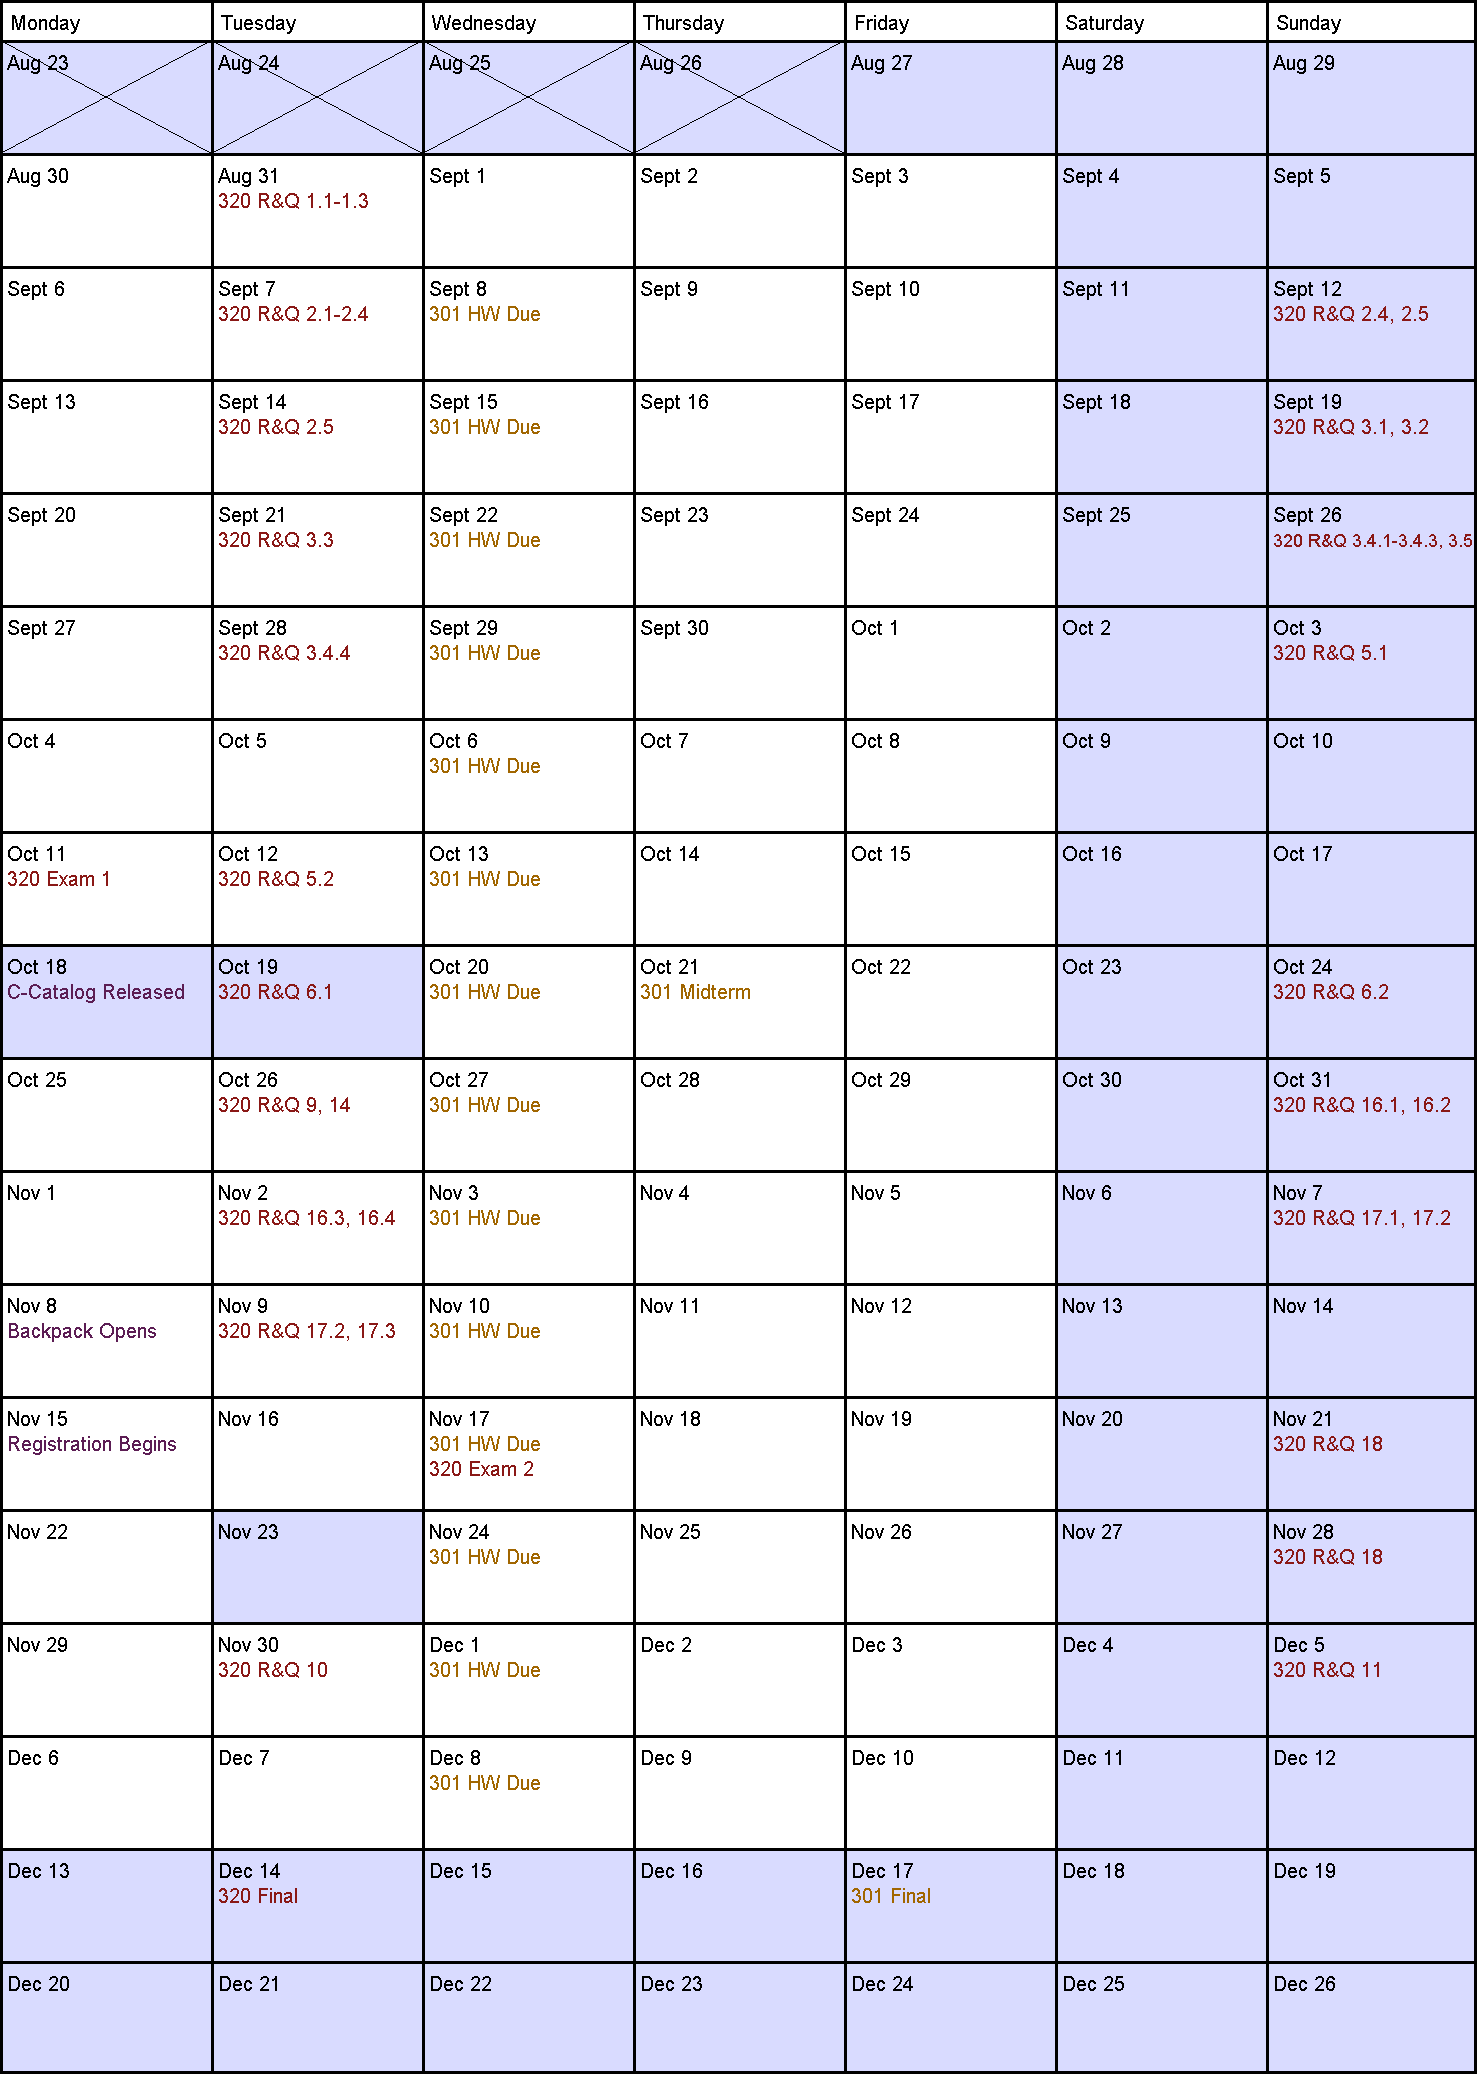
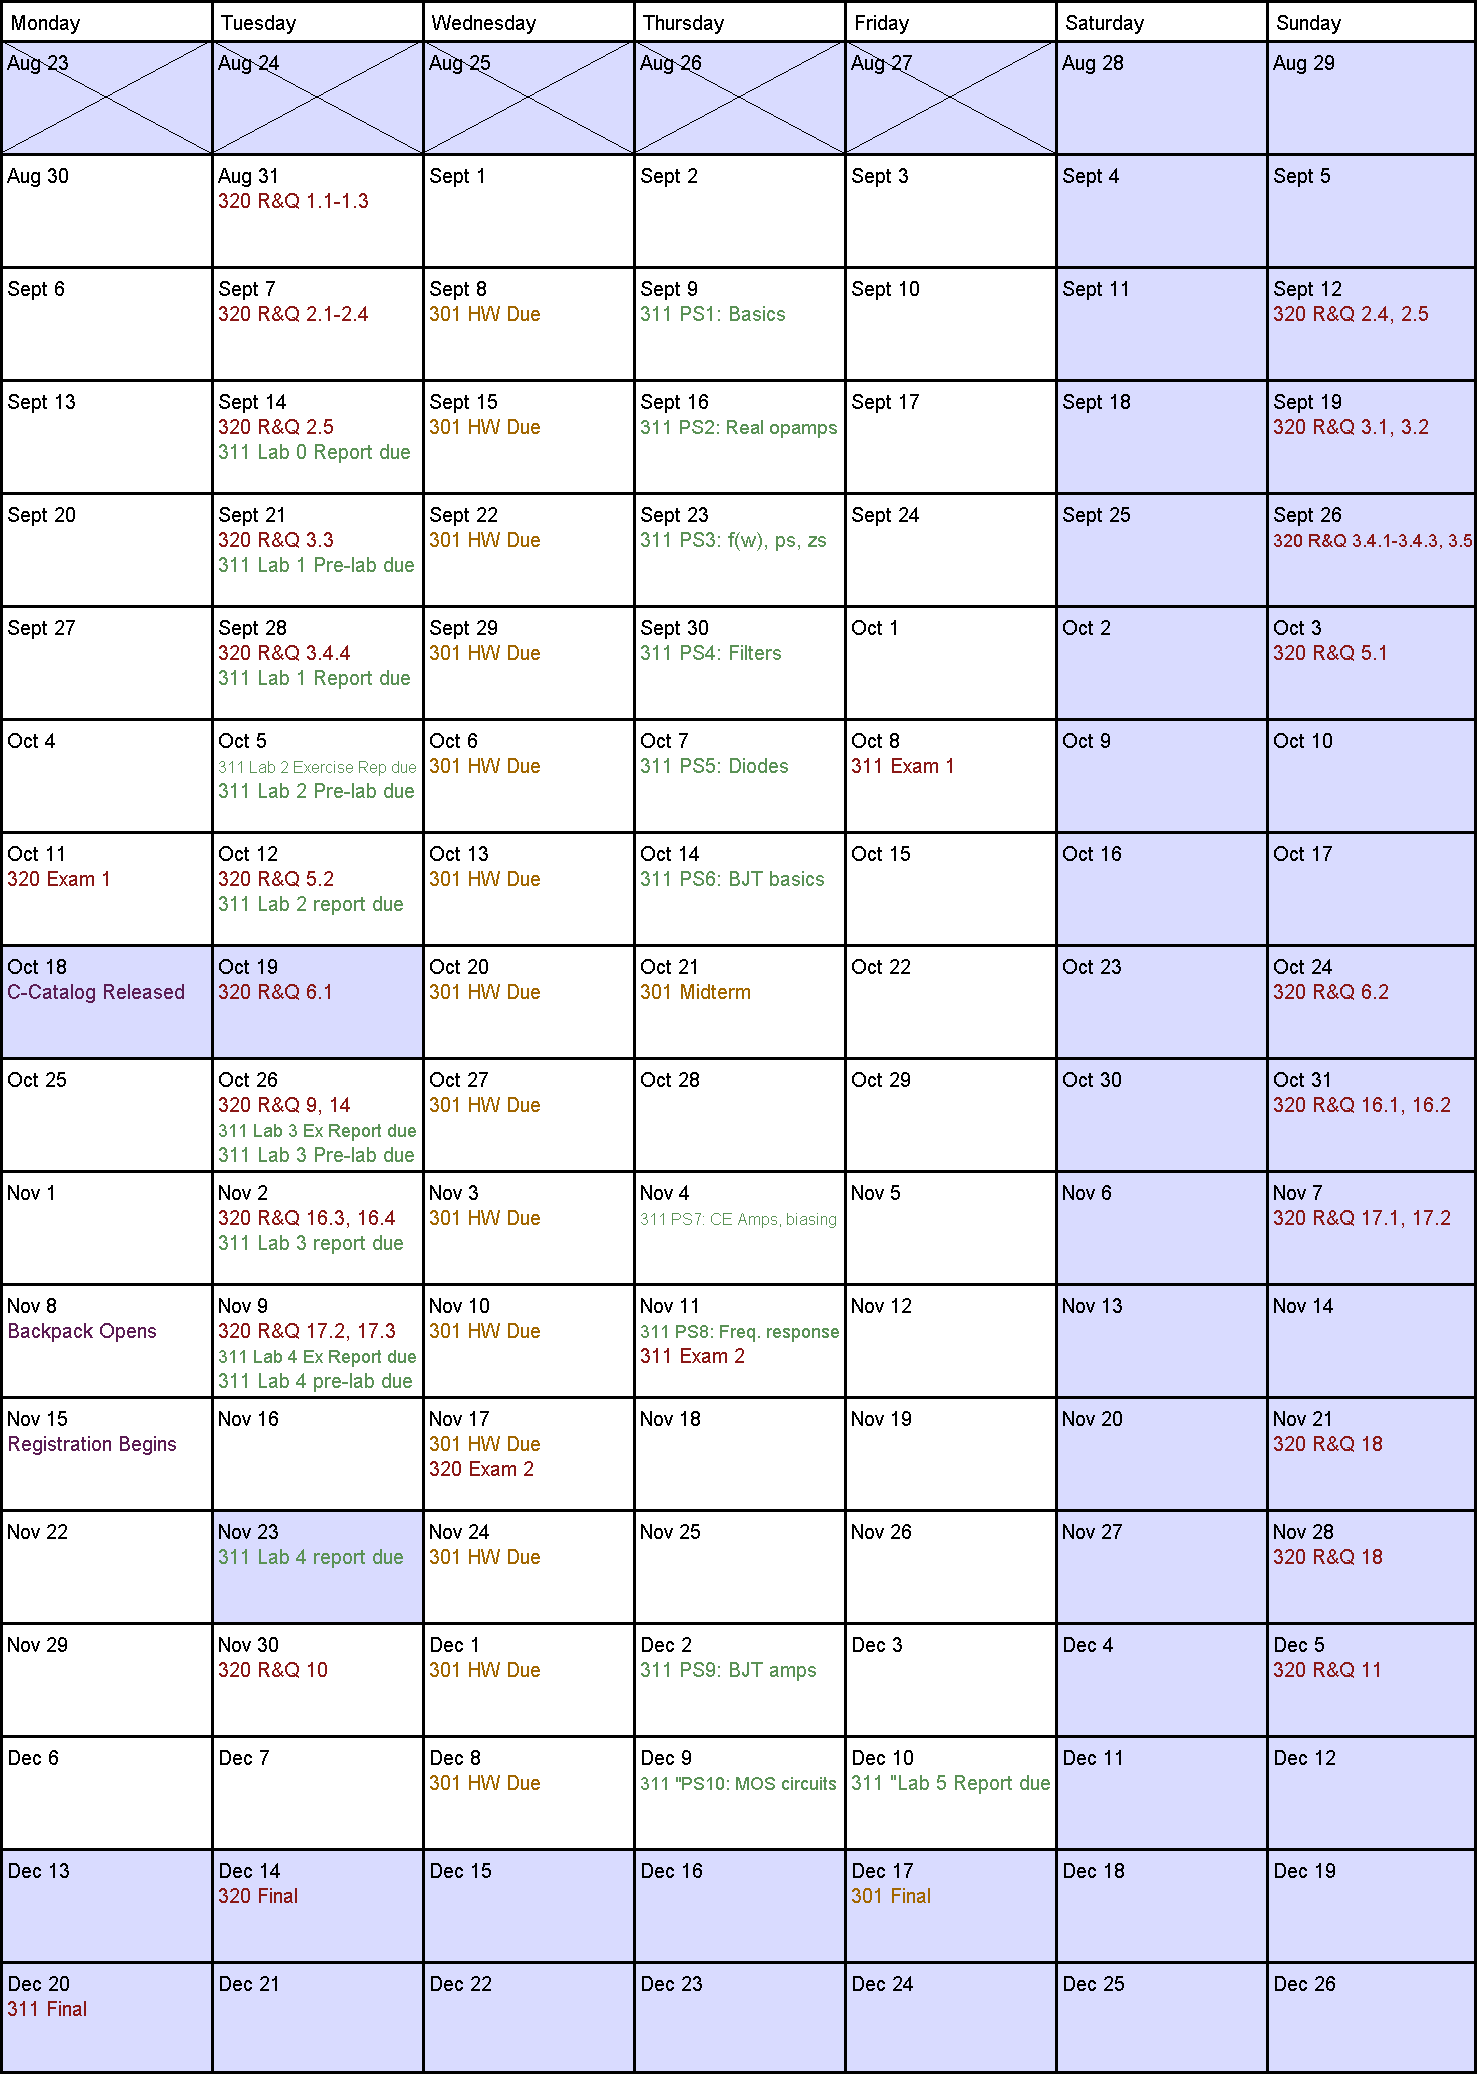
added 311

Changed region(s): [[0.1557, 0.648, 0.2803, 0.6789], [0.2492, 0.3703, 0.2803, 0.4012]]

diff --git a/src/Calendar.java b/src/Calendar.java
@@ -93,9 +93,14 @@ public class Calendar extends Applet implements Runnable, KeyListener {
         addEvent("301 Midterm", getDayofYear(21,10), 5);
         addEvent("301 Final", getDayofYear(17,12), 5);
         add320Q();
+        add311Q();
         addEvent("320 Exam 1", getDayofYear(11,10), 2);
         addEvent("320 Exam 2", getDayofYear(17,11), 2);
         addEvent("320 Final", getDayofYear(14,12), 2);
+
+        addEvent("311 Exam 1", getDayofYear(8,10), 2);
+        addEvent("311 Exam 2", getDayofYear(11,11), 2);
+        addEvent("311 Final", getDayofYear(20,12), 2);
 
     }
 
@@ -145,6 +150,44 @@ public class Calendar extends Applet implements Runnable, KeyListener {
                     i=12;
                 }
             }
+
+        }
+    }
+    private void add311Q(){
+        String table="09/9\tPS1: Basics\n" +
+                "09/14\tLab 0 Report due\n" +
+                "09/16\tPS2: Real opamps\n" +
+                "09/21\tLab 1 Pre-lab due\n" +
+                "09/23\tPS3: f(w), ps, zs\n" +
+                "09/28\tLab 1 Report due\n" +
+                "09/30\tPS4: Filters\n" +
+                "10/5\tLab 2 Exercise Rep due\n" +
+                "10/5\tLab 2 Pre-lab due\n" +
+                "10/7\tPS5: Diodes\n" +
+                "10/12\tLab 2 report due\n" +
+                "10/14\tPS6: BJT basics\n" +
+                "10/26\tLab 3 Ex Report due\n" +
+                "10/26\tLab 3 Pre-lab due\n" +
+                "11/2\tLab 3 report due\n" +
+                "11/4\tPS7: CE Amps, biasing\n" +
+                "11/9\tLab 4 Ex Report due\n" +
+                "11/9\tLab 4 pre-lab due\n" +
+                "11/11\tPS8: Freq. response\n" +
+                "11/23\tLab 4 report due\n" +
+                "12/2\tPS9: BJT amps\n" +
+                "12/9\t\"PS10: MOS circuits\n" +
+                "12/10\t\"Lab 5 Report due\n"+
+                "End";
+        while (table.contains("\n")){
+            String line=table.substring(0,table.indexOf("\n"));
+            table=table.substring(table.indexOf("\n")+1);
+            String date=line.substring(0,line.indexOf("\t"));
+            line=line.substring(line.indexOf("\t")+1);
+
+            int month=Integer.parseInt(date.substring(0,2));//NOTE: THIS IS LAZY
+            int day=Integer.parseInt(date.substring(3));//NOTE: THIS IS LAZY
+            System.out.println(month+" & "+day);
+            addEvent("311 "+line, getDayofYear(day,month), 3);
 
         }
     }
